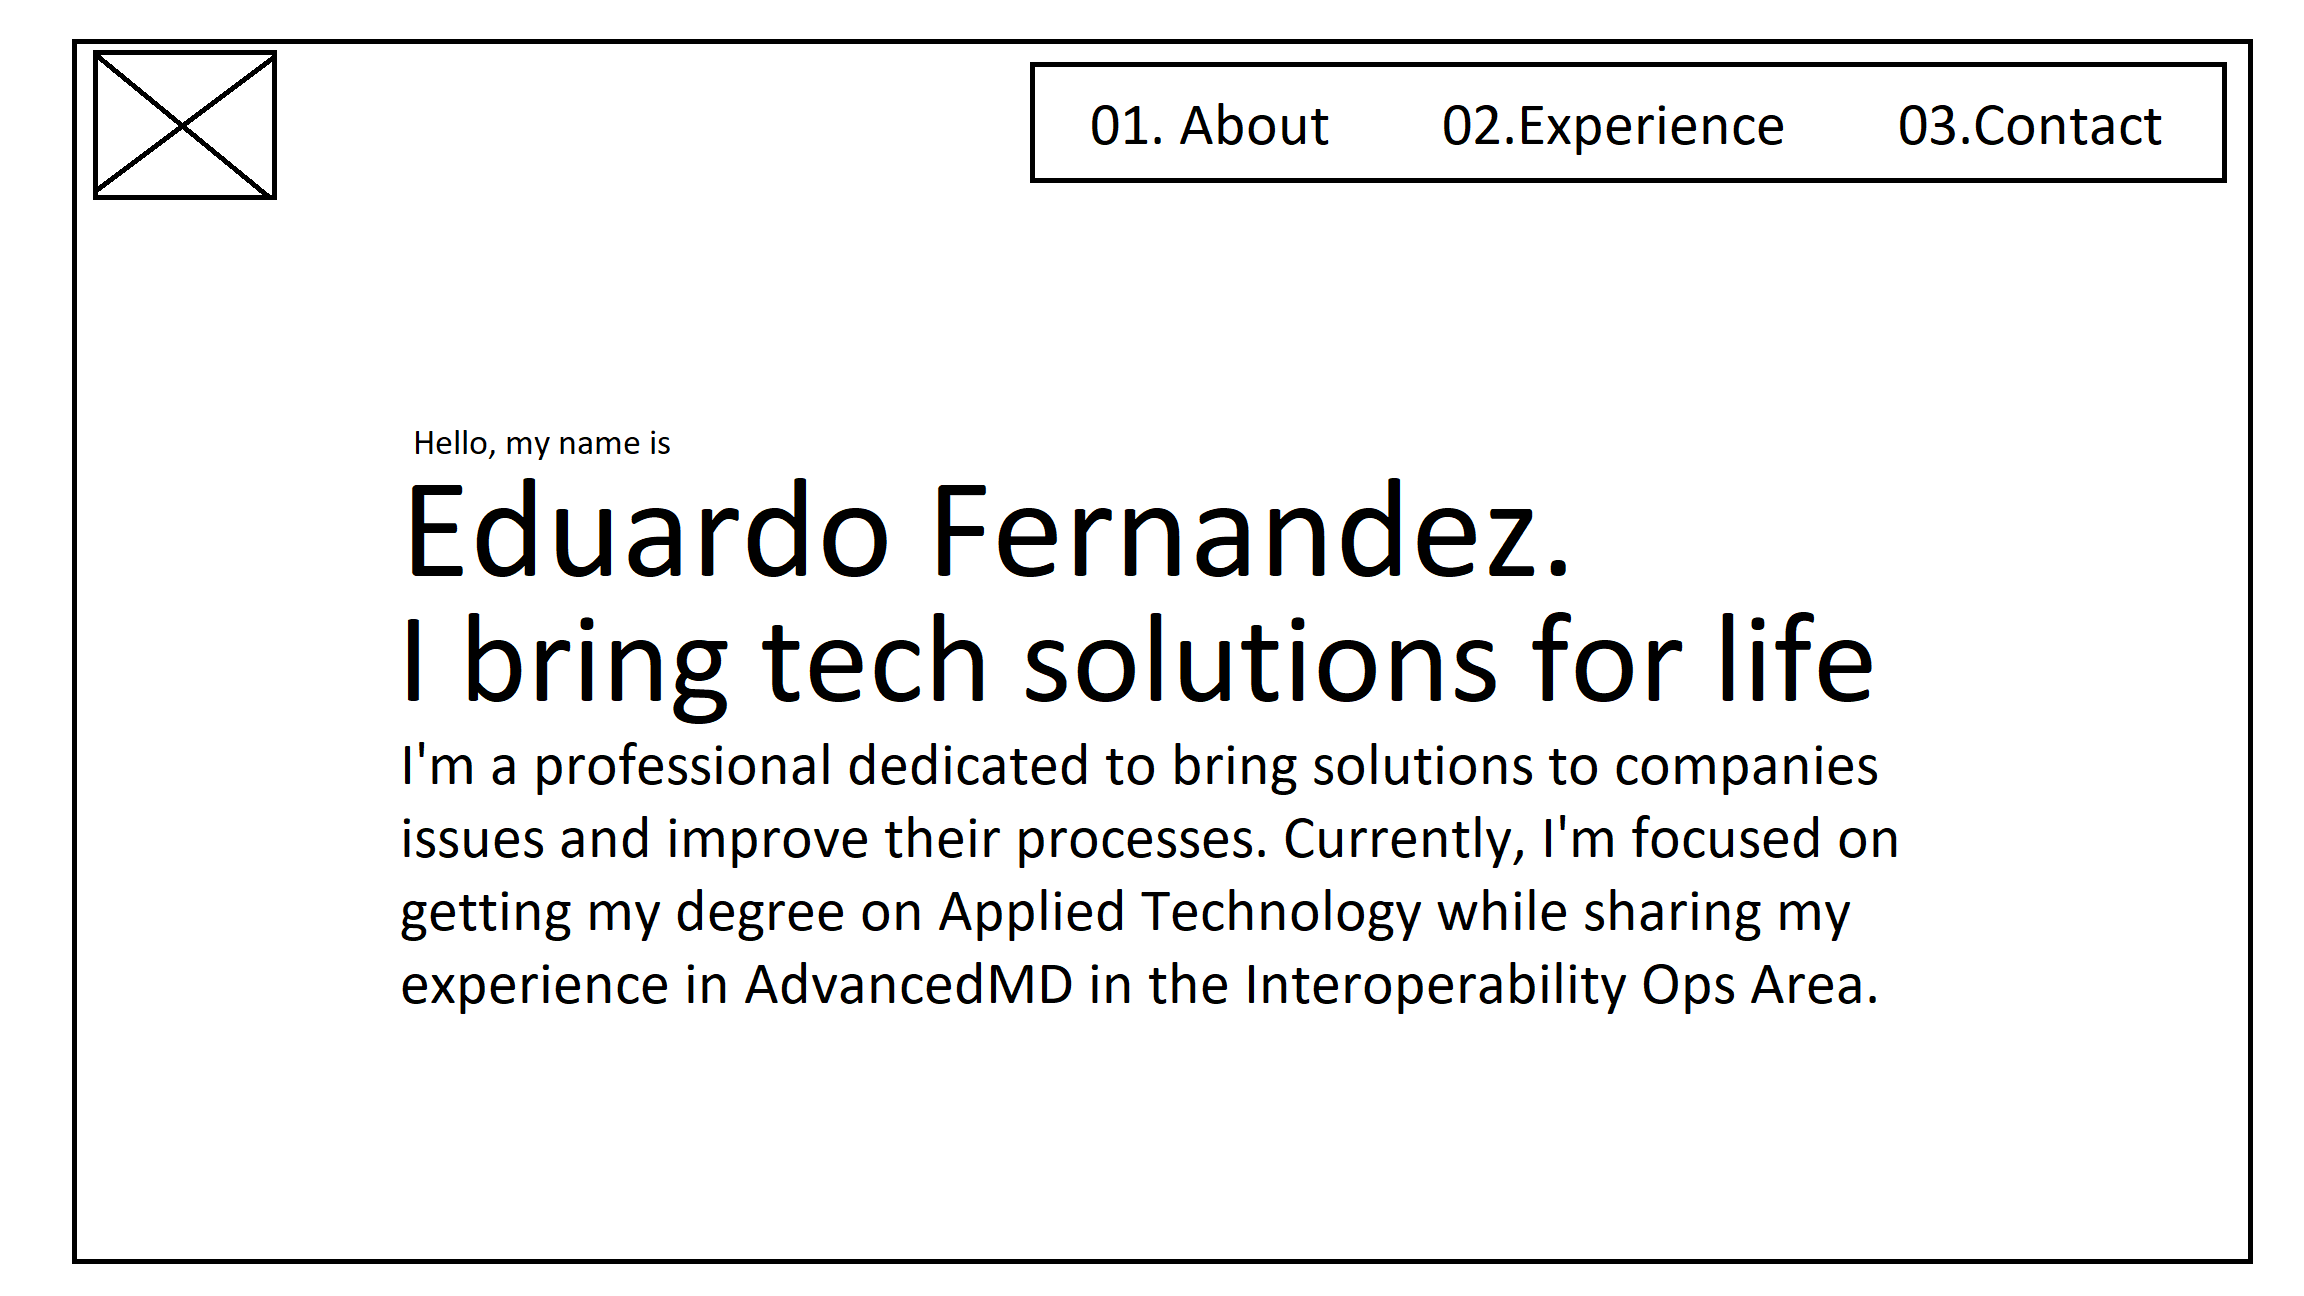
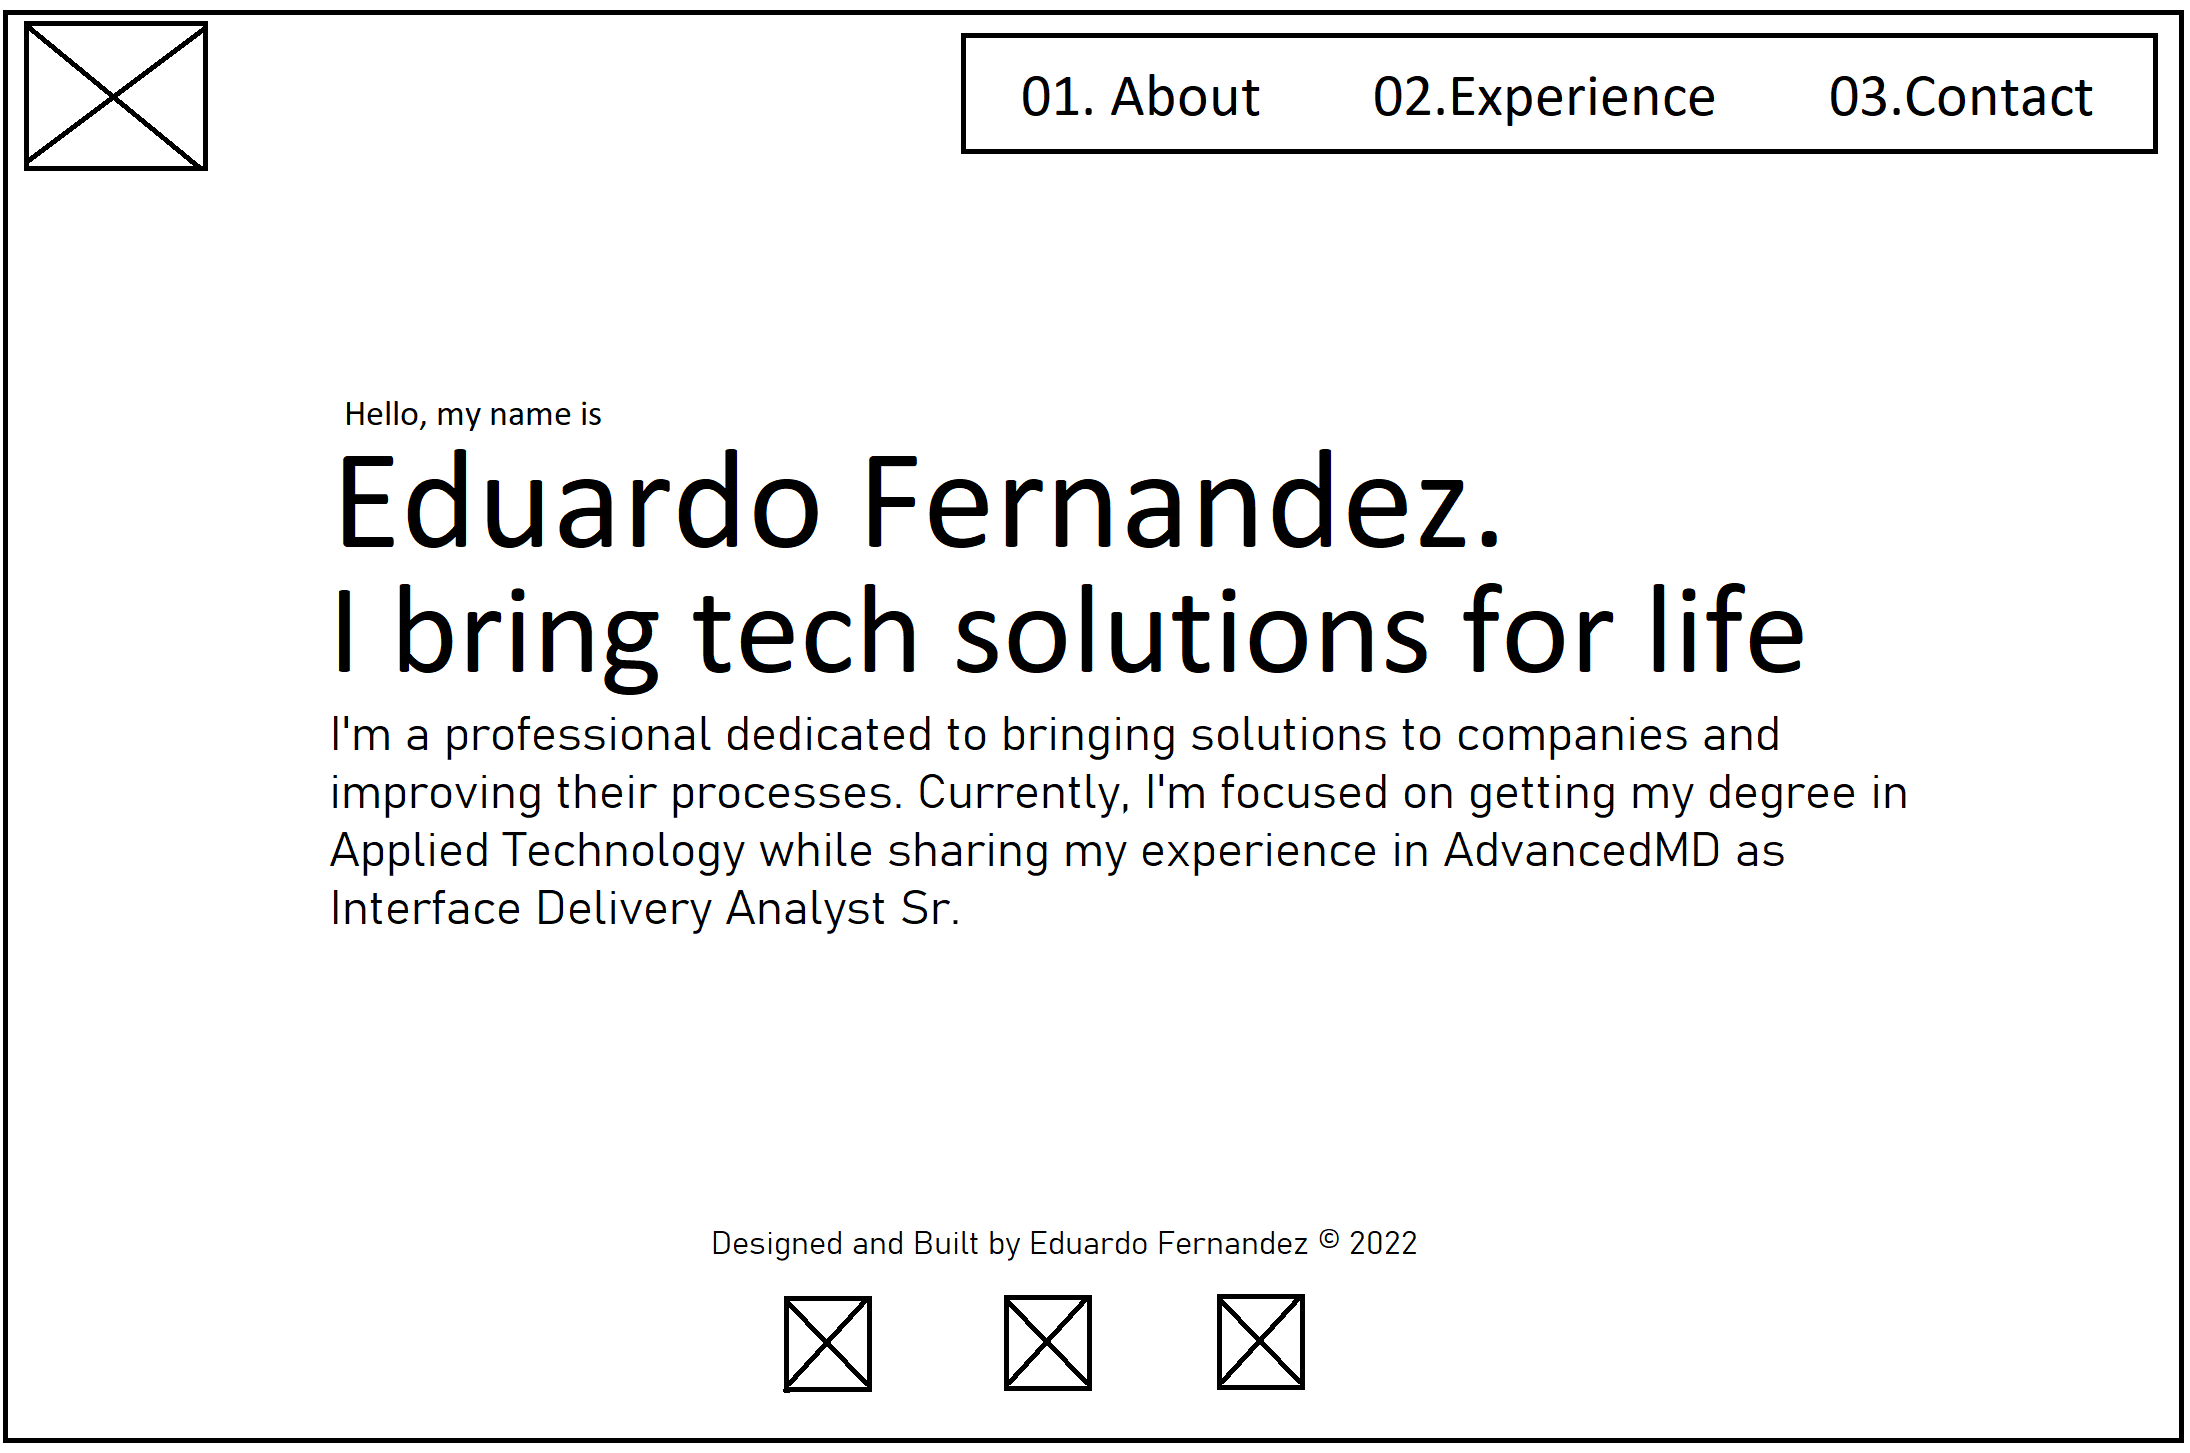
update

Changed region(s): [[0.1553, 0.2778, 0.8694, 0.7716], [0.0, 0.0, 1.0, 1.0]]

diff --git a/personal-site/index.html b/personal-site/index.html
@@ -27,7 +27,7 @@
         <h1 class="cont1" id="p1">Hello, my name is</h1>
         <h2 class="cont1" id="p2">Eduardo Fernandez.</h2>
         <h3 class="cont1" id="p3">I bring technological solutions to life.</h3>
-        <p class="cont1" id="p4">I'm a professional dedicated to bring solutions to companies and improve their processes. Currently, I'm focused on getting my degree on Applied Technology while sharing my experience 
+        <p class="cont1" id="p4">I'm a professional dedicated to bringing solutions to companies and improve their processes. Currently, I'm focused on getting my degree in Applied Technology while sharing my experience 
             in <a href="https://www.advancedmd.com/" target="_blank" class="hyperlinks">AdvancedMD</a> as 
             <a href="https://www.zippia.com/interface-analyst-jobs/what-does-an-interface-analyst-do/" target="_blank" class="hyperlinks"> <span>Interface Delivery Analyst Sr</span></a>.</p>
     </div>
